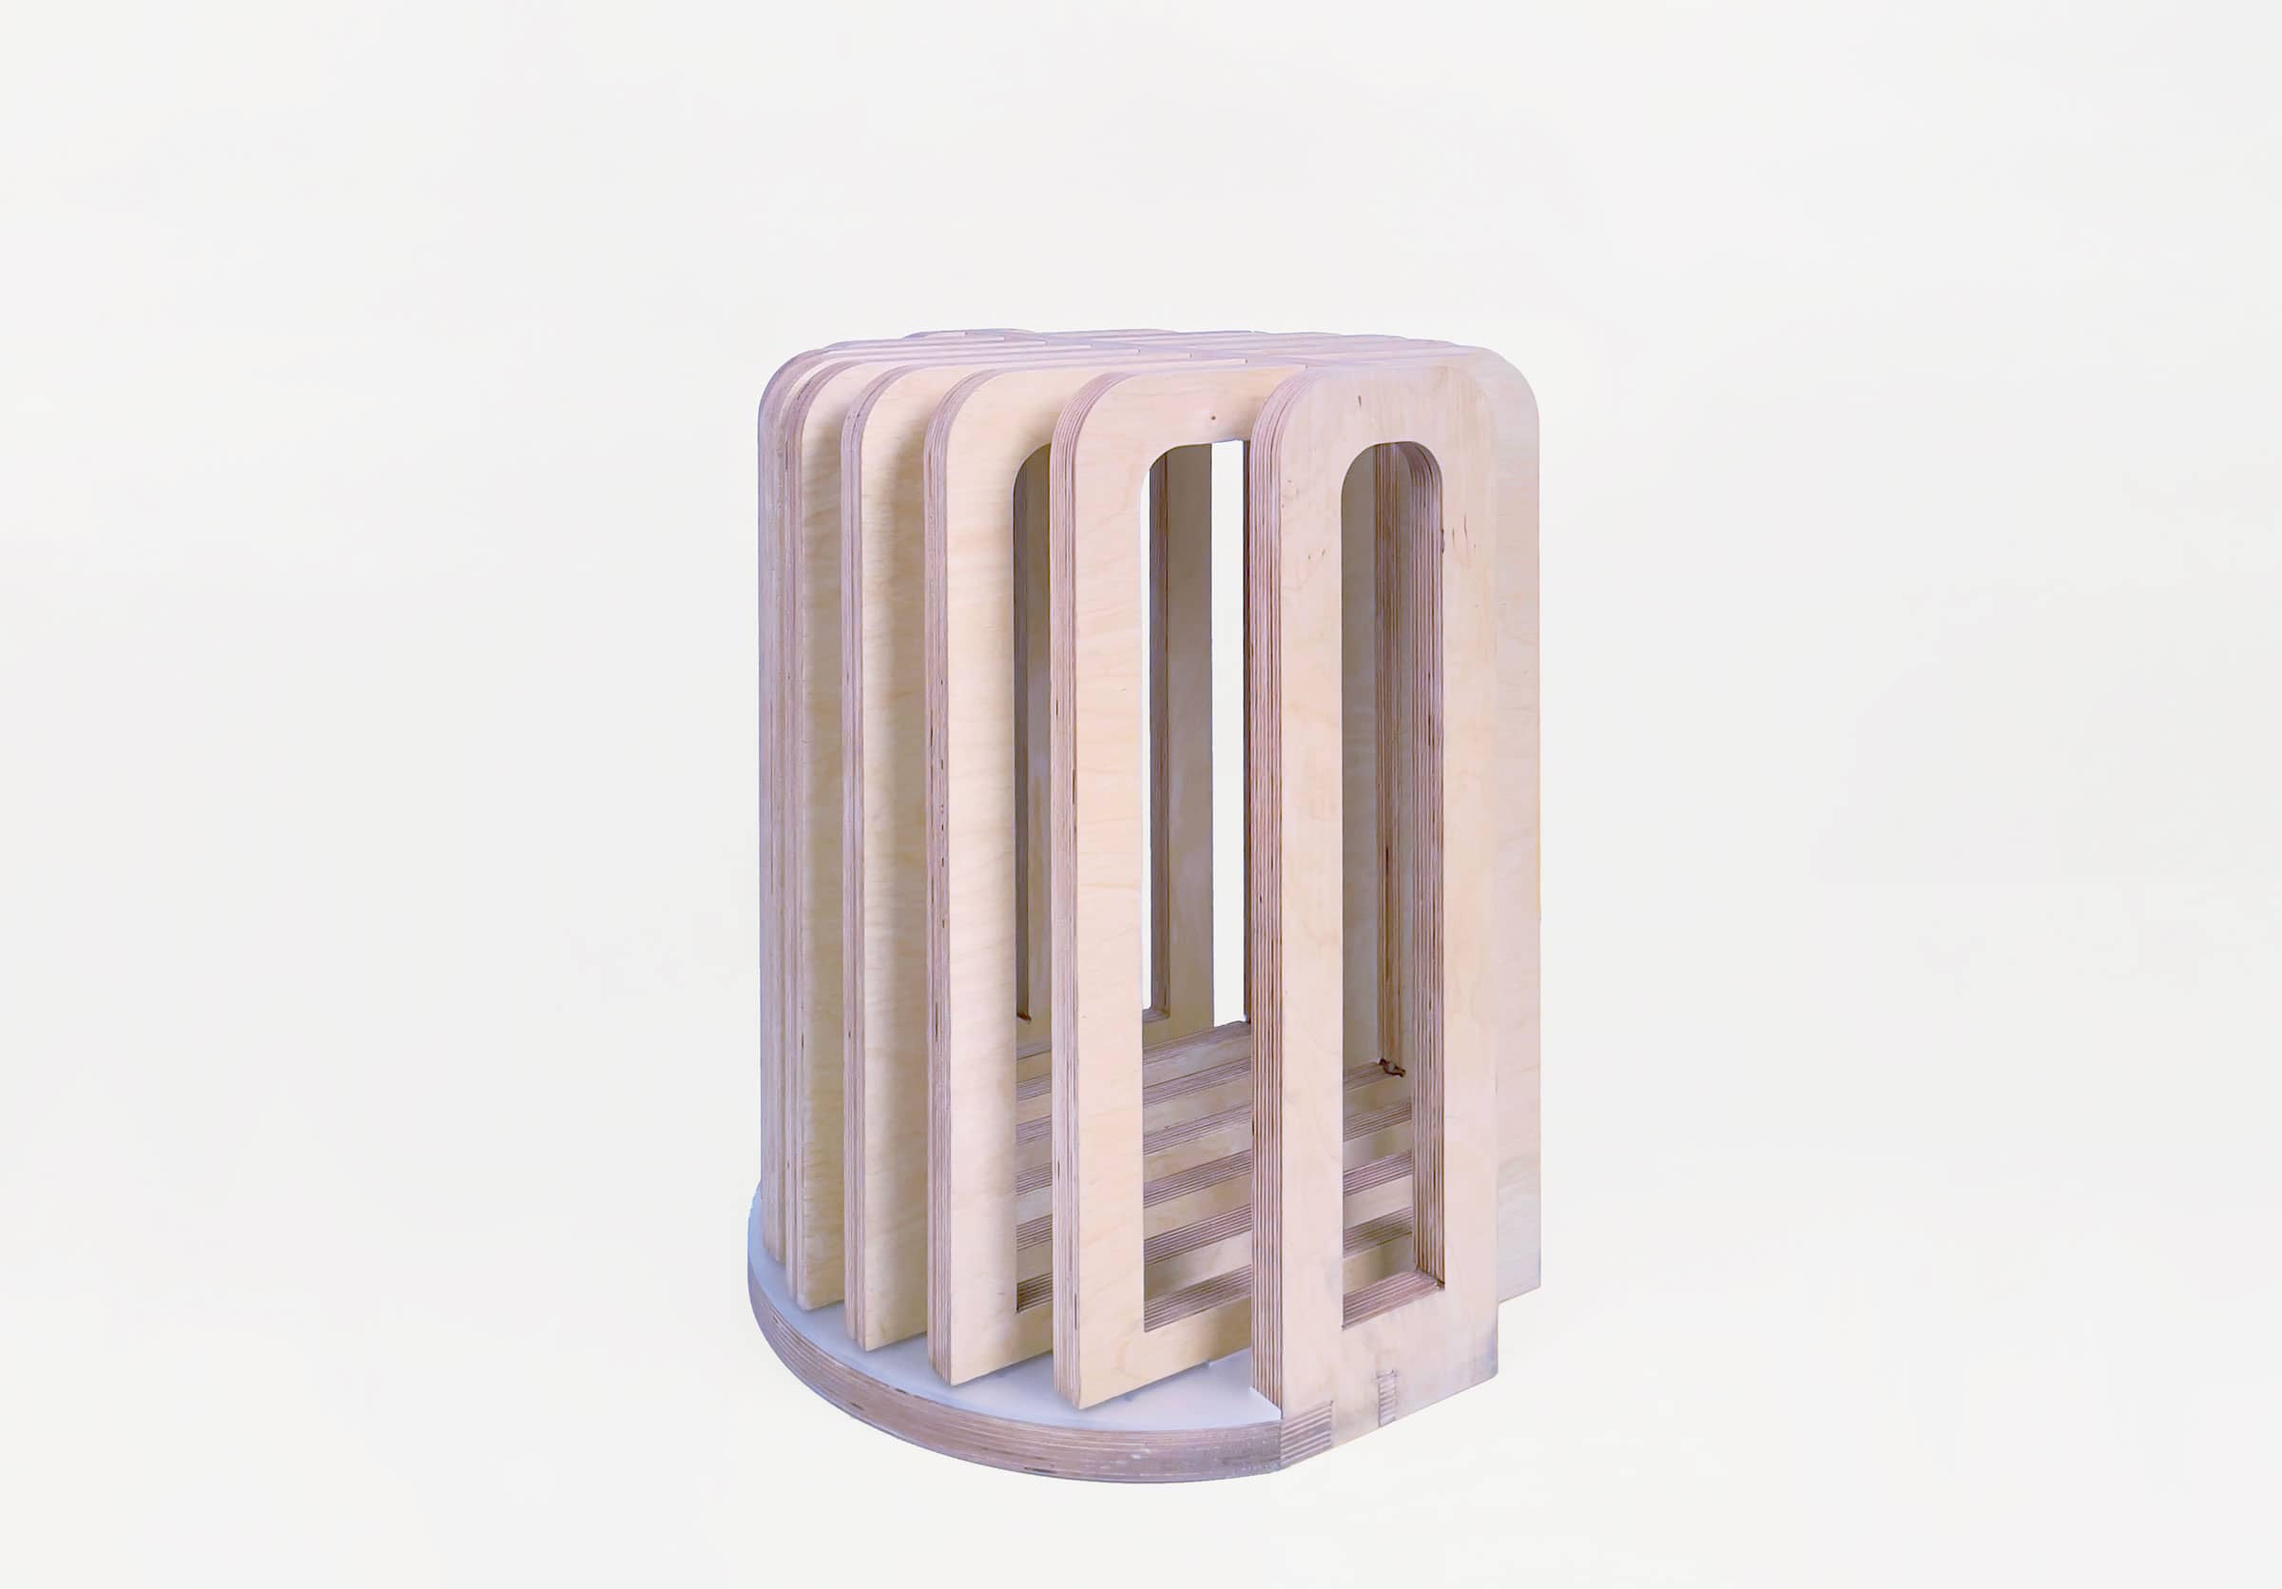
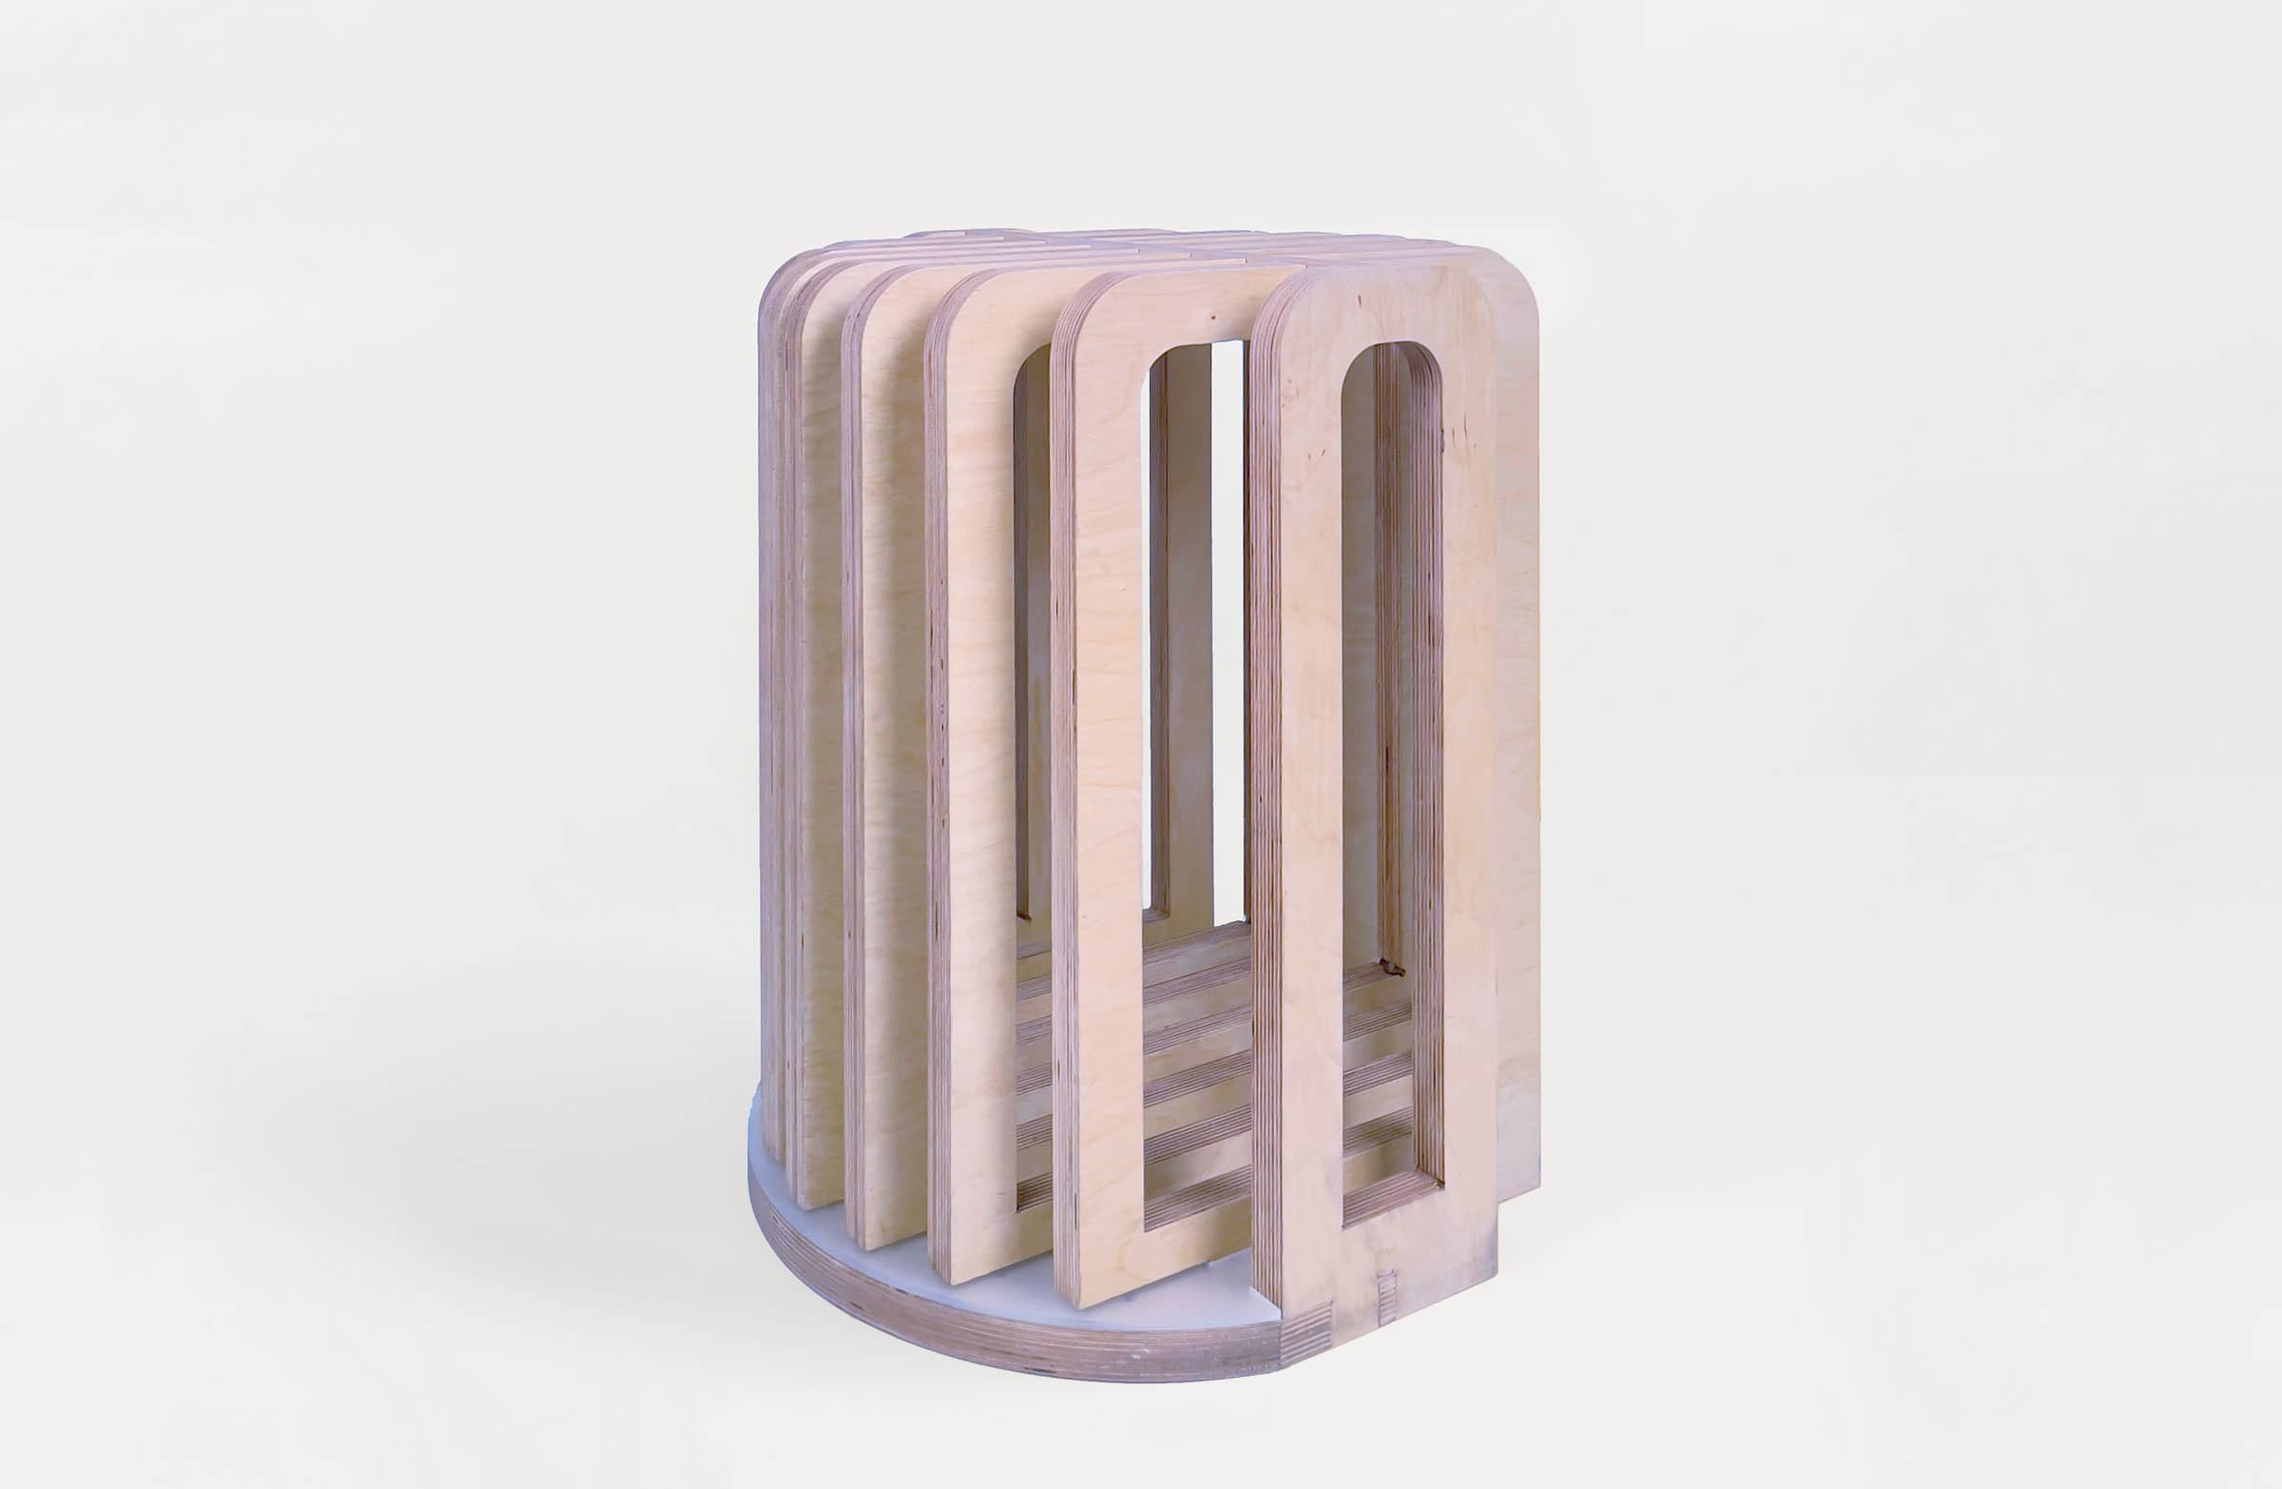
updated images

diff --git a/src/routes/Scent.js b/src/routes/Scent.js
@@ -66,7 +66,7 @@ function Scent() {
             <img className='master-image' src={process.env.PUBLIC_URL + '/assets/scent/part.png'} alt="aspects of scent"/>
         </div>
 
-        <img className='master-image' style={{marginTop: 200, marginBottom: 200}} src={process.env.PUBLIC_URL + '/assets/scent/master-2.jpg'} alt="master shot"/>
+        <img className='master-image' style={{marginTop: 200, marginBottom: 200}} src={process.env.PUBLIC_URL + '/assets/scent/master-3.jpg'} alt="master shot"/>
         
 
 

diff --git a/src/components/Navigation.js b/src/components/Navigation.js
@@ -11,7 +11,7 @@ function Navigation(){
     <div className="nav">
         {location.pathname === '/' ? null : <Link to='/'>Home</Link>}
         <a href='https://www.linkedin.com/in/%EC%88%98%EC%97%B0-%EB%B0%95-495934193/' target="_blank" rel="noopener noreferrer">LinkedIn</a>
-        <a href = {CV} target = "_blank">CV</a>
+        <a href = {CV} target = "_blank" rel="noopener noreferrer">CV</a>
     </div>);
 }
 
